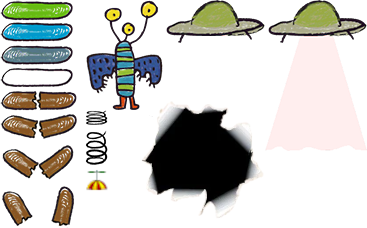
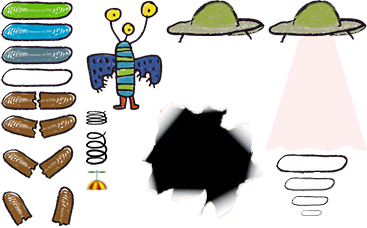
Ajout plateform qui disparait

Changed region(s): [[0.7493, 0.6754, 0.9591, 0.9518]]

diff --git a/src/platforms/platform_vanishing.cpp b/src/platforms/platform_vanishing.cpp
@@ -1,24 +1,24 @@
-#include "platform_breakable.hpp"
+#include "platform_vanishing.hpp"
 
 #include "../RSDL/rsdl.hpp"
 #include "../consts.hpp"
 
-GameObject::CollisionType PlatformBreakable::collideType_ = GameObject::CollisionType::pBreakable;
+GameObject::CollisionType PlatformVanishing::collideType_ = GameObject::CollisionType::pVanishing;
 
-void PlatformBreakable::update(unsigned deltaTime, Window* win) {
-    if (state_ == State::broke) {
+void PlatformVanishing::update(unsigned deltaTime, Window* win) {
+    if (state_ == State::vanishing) {
         disapearAnimationTimer += deltaTime;
         if (disapearAnimationTimer >= 650) {
             state_ = State::vanished;
         }
         else if (disapearAnimationTimer > 120) {
-            currSprite_ = sprite::Platform::BREAKABLE_B3;
+            currSprite_ = sprite::Platform::VANISHING_B3;
         }
         else if (disapearAnimationTimer > 80) {
-            currSprite_ = sprite::Platform::BREAKABLE_B2;
+            currSprite_ = sprite::Platform::VANISHING_B2;
         }
         else if (disapearAnimationTimer > 40) {
-            currSprite_ = sprite::Platform::BREAKABLE_B1;
+            currSprite_ = sprite::Platform::VANISHING_B1;
         }
         box_.w = sprite::platform[currSprite_].w;
         box_.h = sprite::platform[currSprite_].h;
@@ -26,7 +26,7 @@ void PlatformBreakable::update(unsigned deltaTime, Window* win) {
     }
 }
 
-void PlatformBreakable::draw(Window* win, const PointF& offset) const {
+void PlatformVanishing::draw(Window* win, const PointF& offset) const {
     if (state_ != State::vanished) {
         win->draw_img(sprite::GAMETILES_FILE,
                       Rectangle(box_.x + offset.x, box_.y + offset.y, box_.w, box_.h),
@@ -34,10 +34,10 @@ void PlatformBreakable::draw(Window* win, const PointF& offset) const {
     }
 }
 
-GameObject::CollisionType PlatformBreakable::collide(GameObject* col, Window* win) {
+GameObject::CollisionType PlatformVanishing::collide(GameObject* col, Window* win) {
     if (state_ == State::base) {
         if (col != nullptr) {
-            state_ = State::broke;
+            state_ = State::vanishing;
             win->play_sound_effect(consts::PLAT_BREAK_SOUND);
         }
         return collideType_;

diff --git a/src/doodle.cpp b/src/doodle.cpp
@@ -48,7 +48,7 @@ void Doodle::update(unsigned deltaTime, Window* win) {
 }
 
 void Doodle::updateInputs(InputManager* inputMan) {
-    if (state_ != State::base && state_!=State::withHat) return;
+    if (state_ != State::base && state_ != State::withHat) return;
 
     int direction = inputMan->isKeyPressed(InputKeys::right) - inputMan->isKeyPressed(InputKeys::left);
 
@@ -95,6 +95,14 @@ GameObject::CollisionType Doodle::collide(GameObject* col, Window* win) {
                 col->collide(this, win);
             }
             break;
+        case CollisionType::pVanishing:
+            if (hasHitFromAbove(col)) {
+                col->collide(this, win);
+                vy_ = consts::DOODLE_VY;
+                box_.y = col->getY() - col->getHeight() - box_.h;
+                win->play_sound_effect(consts::DOODLE_JUMP_SOUND);
+            }
+            break;
         case CollisionType::enemyNormal:
             if (hasHitFromAbove(col)) {
                 col->collide(this, win);
@@ -109,7 +117,7 @@ GameObject::CollisionType Doodle::collide(GameObject* col, Window* win) {
                 win->play_sound_effect(consts::DOODLE_HIT_BY_ENEMY_SOUND);
             }
             break;
-            case CollisionType::enemySoucoupe:
+        case CollisionType::enemySoucoupe:
             if (hasHitFromAbove(col)) {
                 col->collide(this, win);
                 vy_ = consts::DOODLE_VY;
@@ -152,9 +160,10 @@ bool Doodle::isOutOfScreenBottom(const Window* win) const {
 }
 
 void Doodle::setSpriteState() {
-    if(state_ == State::withHat) {
+    if (state_ == State::withHat) {
         spriteState_ = charState::RIGHTFLY;
-    } else {
+    }
+    else {
         if (spriteState_ == charState::RIGHT || spriteState_ == charState::RIGHTJUMP) {
             spriteState_ = (vy_ > 0.5 * consts::DOODLE_VY) ? charState::RIGHTJUMP : charState::RIGHT;
         }

diff --git a/src/sequence_manager.cpp b/src/sequence_manager.cpp
@@ -8,9 +8,11 @@
 #include "enemies/enemy_hole.hpp"
 #include "items/spring.hpp"
 #include "items/hat.hpp" // Ensure this header file defines the Hat class
+#include "items/spring.hpp"
 #include "platforms/platform_breakable.hpp"
 #include "platforms/platform_movable.hpp"
 #include "platforms/platform_normal.hpp"
+#include "platforms/platform_vanishing.hpp"
 #include "spritesheet.hpp"
 #include "utils/point_f.hpp"
 #include "utils/rectangle_f.hpp"
@@ -93,6 +95,12 @@ std::vector<GameObject*> SequenceManager::Sequence::toObject() const {
             height = sprite::platform[sprite::Platform::BREAKABLE].h;
             seqObjs.push_back(new PlatformBreakable(RectangleF(getTopLeftFromBottomMiddle(e.x, e.y, width, height), width, height)));
             break;
+        case GameObject::CollisionType::pVanishing:
+            width = sprite::platform[sprite::Platform::BREAKABLE].w;
+            height = sprite::platform[sprite::Platform::BREAKABLE].h;
+            seqObjs.push_back(new PlatformVanishing(RectangleF(getTopLeftFromBottomMiddle(e.x, e.y, width, height), width, height)));
+            break;
+        
         case GameObject::CollisionType::spring:
             width = sprite::item[sprite::Item::SPRING].w;
             height = sprite::item[sprite::Item::SPRING].h;

diff --git a/src/platforms/platform_vanishing.hpp b/src/platforms/platform_vanishing.hpp
@@ -1,10 +1,10 @@
-#ifndef PLATFORM_BREAKABLE_HPP_INCLUDE
-#define PLATFORM_BREAKABLE_HPP_INCLUDE
+#ifndef PLATFORM_VANISHING_HPP_INCLUDE
+#define PLATFORM_VANISHING_HPP_INCLUDE
 
 #include "../spritesheet.hpp"
 #include "platform.hpp"
 
-class PlatformBreakable : public Platform {
+class PlatformVanishing : public Platform {
 public:
     using Platform::Platform;
 
@@ -17,12 +17,12 @@ private:
 
     enum class State {
         base,
-        broke,
+        vanishing,
         vanished
     } state_ = State::base;
 
     int disapearAnimationTimer = 0;
-    sprite::Platform currSprite_ = sprite::Platform::BREAKABLE;
+    sprite::Platform currSprite_ = sprite::Platform::VANISHING;
 };
 
-#endif //PLATFORM_BREAKABLE_HPP_INCLUDE
+#endif //PLATFORM_VANISHING_HPP_INCLUDE

diff --git a/src/sequence_manager.hpp b/src/sequence_manager.hpp
@@ -41,6 +41,7 @@ private:
         {"platform", GameObject::CollisionType::pNormal},
         {"mplatform", GameObject::CollisionType::pMovable},
         {"bplatform", GameObject::CollisionType::pBreakable},
+        {"vplatform", GameObject::CollisionType::pVanishing},
         {"spring", GameObject::CollisionType::spring},
         {"hat", GameObject::CollisionType::hat},
         {"enemy", GameObject::CollisionType::enemyNormal},

diff --git a/src/spritesheet.cpp b/src/spritesheet.cpp
@@ -38,7 +38,7 @@ const Tile button[5] {
     {4 * 140, 0, 140, 50},
 };
 
-const Tile platform[6] {
+const Tile platform[10] {
     {0, 0, 73, 21},
     {0, 22, 73, 20},
 
@@ -46,6 +46,11 @@ const Tile platform[6] {
     {0, 114, 77, 24},
     {2, 145, 72, 35},
     {2, 186, 72, 41},
+
+    {274,152,77,22},
+    {282,175,55,17},
+    {291,195,35,16},
+    {300,209,25,10},
 };
 
 const Tile item[4] {

diff --git a/src/spritesheet.hpp b/src/spritesheet.hpp
@@ -46,6 +46,11 @@ enum Platform {
     BREAKABLE_B1,
     BREAKABLE_B2,
     BREAKABLE_B3,
+
+    VANISHING,
+    VANISHING_B1,
+    VANISHING_B2,
+    VANISHING_B3,
 };
 
 enum Item {
@@ -65,7 +70,7 @@ enum Enemy {
 extern const Tile doodle[6];
 extern const Tile button[5];
 
-extern const Tile platform[6];
+extern const Tile platform[10];
 extern const Tile item[4];
 extern const Tile enemy[4];
 

diff --git a/src/system.cpp b/src/system.cpp
@@ -5,6 +5,7 @@
 #include "platforms/platform_breakable.hpp"
 #include "platforms/platform_movable.hpp"
 #include "platforms/platform_normal.hpp"
+#include "platforms/platform_vanishing.hpp"
 #include "spritesheet.hpp"
 
 System::System(Window* win_)

diff --git a/src/game_object.hpp b/src/game_object.hpp
@@ -22,6 +22,7 @@ public:
         pNormal,
         pBreakable,
         pMovable,
+        pVanishing,
         enemyNormal,
         enemySoucoupe,
         spring,
